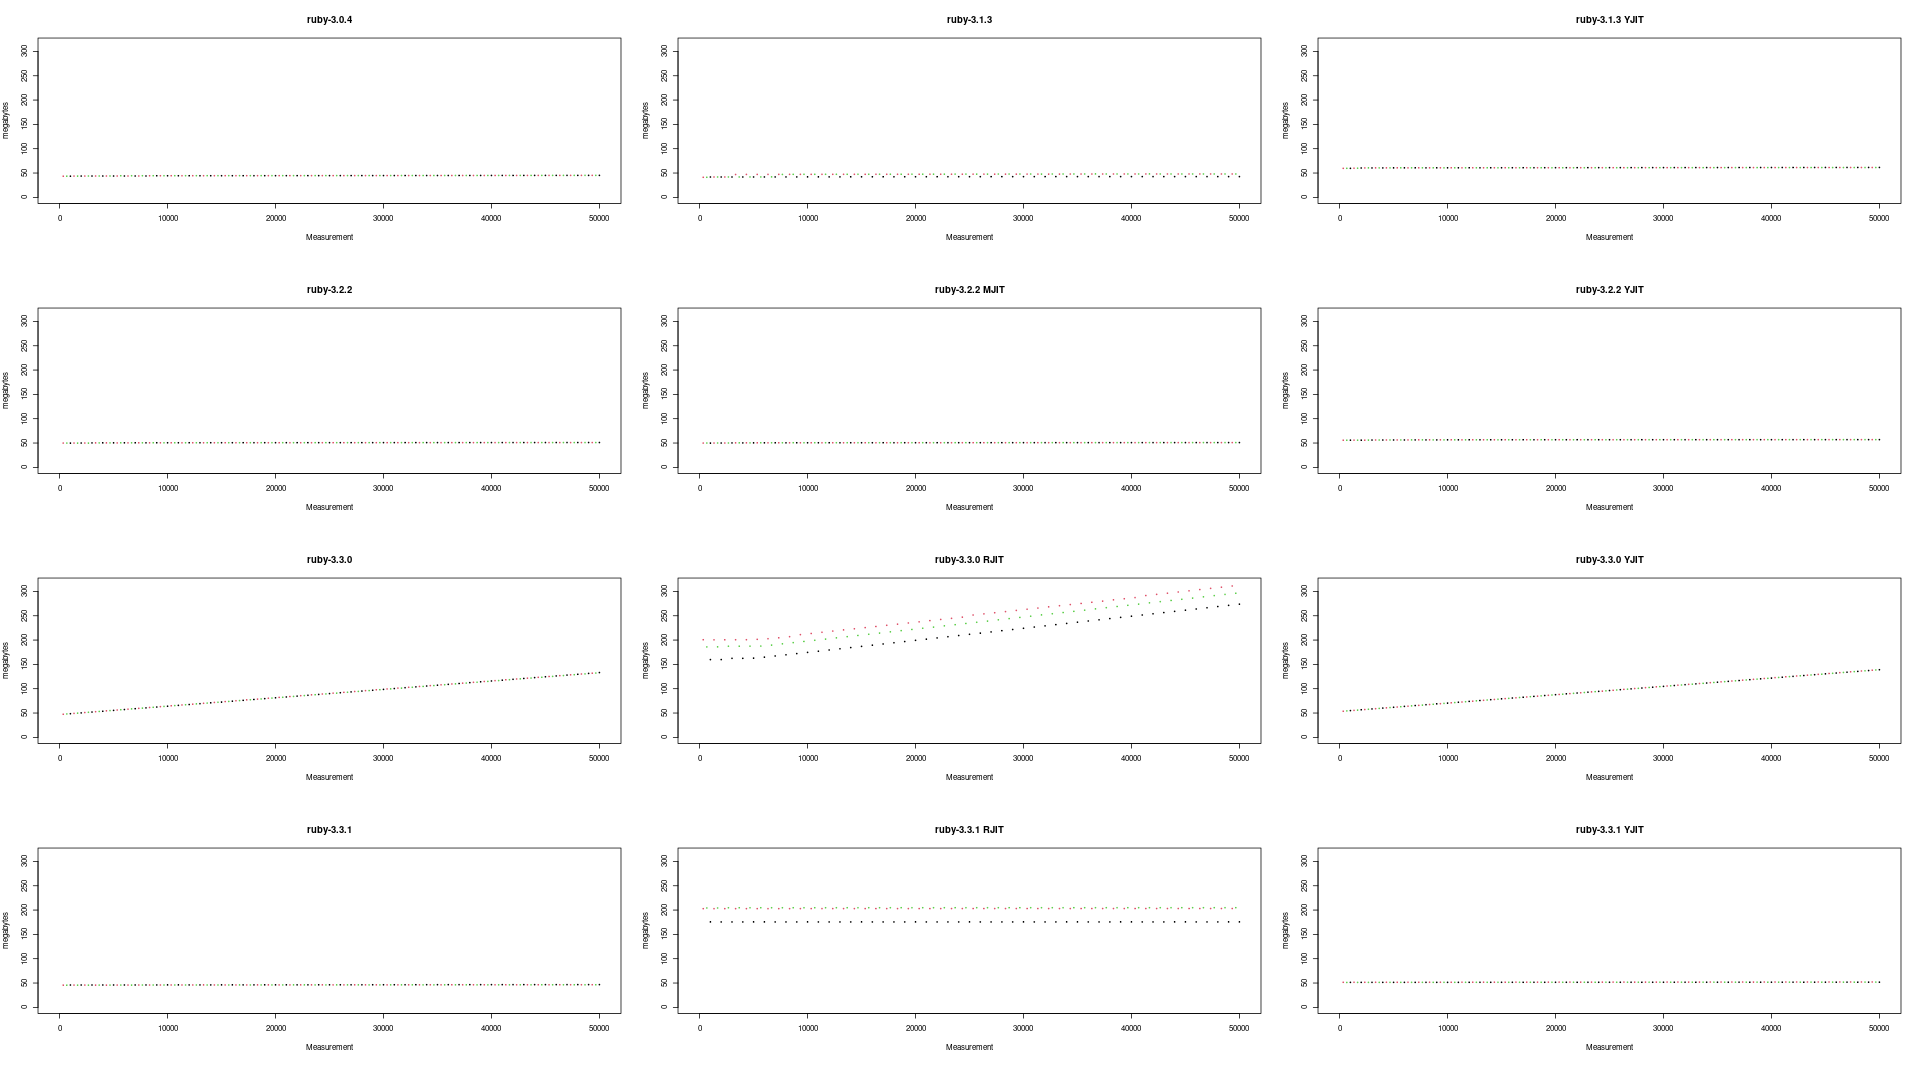
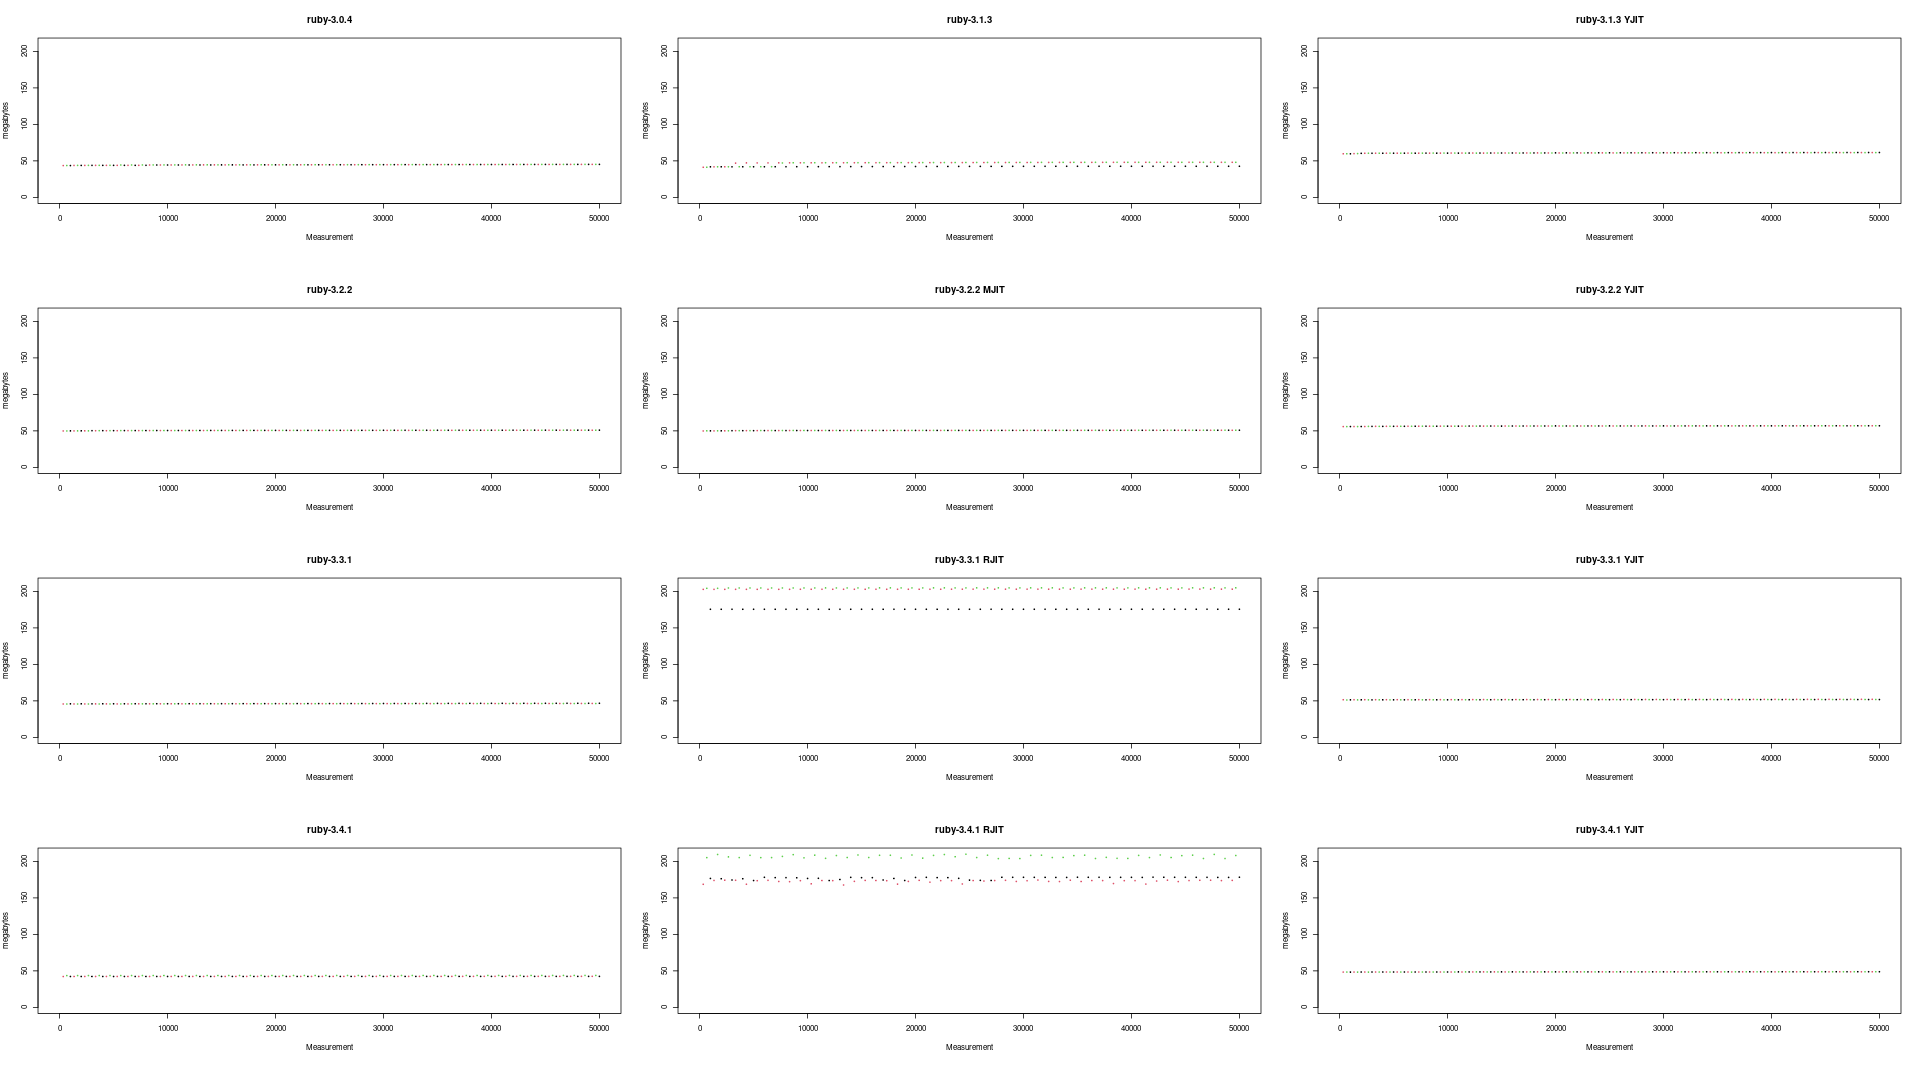
Updated results for Rodauth app MRI Rubies 3.0 - 3.4

diff --git a/data/rodauth/README.md b/data/rodauth/README.md
@@ -14,7 +14,7 @@ Five url's were included in the test:
 5. index-page with bad cookie (cyan)
 
 ## System
-OS: Linux 5.15.0-105-generic #115-Ubuntu SMP Mon Apr 15 09:52:04 UTC 2024 x86_64 GNU/Linux  
+OS: Linux 5.15.0-126-generic #136-Ubuntu SMP Wed Nov 6 10:38:22 UTC 2024 x86_64 GNU/Linux  
 CPU: AuthenticAMD AMD Ryzen 7 5800X 8-Core Processor  
 
 ## Tested Rubies
@@ -26,20 +26,20 @@ CPU: AuthenticAMD AMD Ryzen 7 5800X 8-Core Processor
 | ruby-3.2.2                |      |      37Mb |      51Mb |      124s |    0.49ms |    0.47ms |    0.12ms |       99 |        0 |   750000 |       19 |
 | ruby-3.2.2                | MJIT |      37Mb |      51Mb |      125s |    0.49ms |    0.47ms |    0.12ms |       93 |        0 |   750000 |       19 |
 | ruby-3.2.2                | YJIT |      38Mb |      57Mb |      113s |    0.45ms |    0.42ms |    0.16ms |      147 |        0 |   750000 |       22 |
-| ruby-3.3.0                |      |      41Mb |     133Mb |      138s |    0.55ms |    0.53ms |    0.13ms |        9 |        0 |   750000 |        1 |
-| ruby-3.3.0                | RJIT |      82Mb |     295Mb |      142s |    0.55ms |    0.49ms |     2.9ms |     5302 |        0 |   750000 |        2 |
-| ruby-3.3.0                | YJIT |      42Mb |     139Mb |      119s |    0.48ms |    0.46ms |    0.18ms |       27 |        0 |   750000 |        1 |
 | ruby-3.3.1                |      |      39Mb |      46Mb |      136s |    0.54ms |    0.52ms |    0.12ms |        9 |        0 |   750000 |        4 |
 | ruby-3.3.1                | RJIT |      74Mb |     195Mb |      143s |    0.56ms |    0.49ms |    2.91ms |     4351 |        0 |   750000 |        2 |
 | ruby-3.3.1                | YJIT |      40Mb |      52Mb |      117s |    0.46ms |    0.44ms |    0.18ms |       25 |        0 |   750000 |        1 |
+| ruby-3.4.1                |      |      33Mb |      43Mb |      144s |    0.57ms |    0.53ms |    0.15ms |       15 |        0 |   750000 |        1 |
+| ruby-3.4.1                | RJIT |      72Mb |     186Mb |      160s |    0.62ms |     0.5ms |    3.52ms |     3438 |        0 |   750000 |      266 |
+| ruby-3.4.1                | YJIT |      34Mb |      49Mb |      120s |    0.47ms |    0.45ms |    0.22ms |       39 |        0 |   750000 |        1 |
 
 ## Winners
 
-- Ruby with lowest __slow__ response-count (> 3ms): __ruby-3.3.0__ (9x)
+- Ruby with lowest __slow__ response-count (> 3ms): __ruby-3.3.1__ (9x)
 - Ruby with lowest __median__* response-time: __ruby-3.2.2 YJIT__ (0.42ms)
 - Ruby with lowest __standard deviation__ response-time: __ruby-3.2.2__ (0.12ms)
 - Ruby with lowest __mean__* response-time: __ruby-3.2.2 YJIT__ (0.45ms)
-- Ruby with lowest __memory__ use: __ruby-3.0.4__ (45Mb)
+- Ruby with lowest __memory__ use: __ruby-3.4.1__ (43Mb)
 
 \* Mean and median are calculated after warmup (x > N/2).
 
@@ -76,15 +76,6 @@ Vertical blue lines near the X-axis indicate major garbage collection runs (of R
 ## Response-times for: ruby-3.2.2 YJIT
 ![Response-times for: ruby-3.2.2 YJIT](/data/rodauth/plots/rodauth_1_ruby-3.2.2%20YJIT.png "Response-times for: ruby-3.2.2 YJIT")
 
-## Response-times for: ruby-3.3.0
-![Response-times for: ruby-3.3.0](/data/rodauth/plots/rodauth_1_ruby-3.3.0.png "Response-times for: ruby-3.3.0")
-
-## Response-times for: ruby-3.3.0 RJIT
-![Response-times for: ruby-3.3.0 RJIT](/data/rodauth/plots/rodauth_1_ruby-3.3.0%20RJIT.png "Response-times for: ruby-3.3.0 RJIT")
-
-## Response-times for: ruby-3.3.0 YJIT
-![Response-times for: ruby-3.3.0 YJIT](/data/rodauth/plots/rodauth_1_ruby-3.3.0%20YJIT.png "Response-times for: ruby-3.3.0 YJIT")
-
 ## Response-times for: ruby-3.3.1
 ![Response-times for: ruby-3.3.1](/data/rodauth/plots/rodauth_1_ruby-3.3.1.png "Response-times for: ruby-3.3.1")
 
@@ -93,6 +84,15 @@ Vertical blue lines near the X-axis indicate major garbage collection runs (of R
 
 ## Response-times for: ruby-3.3.1 YJIT
 ![Response-times for: ruby-3.3.1 YJIT](/data/rodauth/plots/rodauth_1_ruby-3.3.1%20YJIT.png "Response-times for: ruby-3.3.1 YJIT")
+
+## Response-times for: ruby-3.4.1
+![Response-times for: ruby-3.4.1](/data/rodauth/plots/rodauth_1_ruby-3.4.1.png "Response-times for: ruby-3.4.1")
+
+## Response-times for: ruby-3.4.1 RJIT
+![Response-times for: ruby-3.4.1 RJIT](/data/rodauth/plots/rodauth_1_ruby-3.4.1%20RJIT.png "Response-times for: ruby-3.4.1 RJIT")
+
+## Response-times for: ruby-3.4.1 YJIT
+![Response-times for: ruby-3.4.1 YJIT](/data/rodauth/plots/rodauth_1_ruby-3.4.1%20YJIT.png "Response-times for: ruby-3.4.1 YJIT")
 
 
 ## Detailed scatter-plots
@@ -115,15 +115,6 @@ Same as above but focussing on the most ocurring response times. GC runs are not
 ## Detailed response-times for: ruby-3.2.2 YJIT
 ![Detailed response-times for: ruby-3.2.2 YJIT](/data/rodauth/plots/rodauth_2_ruby-3.2.2%20YJIT.png "Detailed response-times for: ruby-3.2.2 YJIT")
 
-## Detailed response-times for: ruby-3.3.0
-![Detailed response-times for: ruby-3.3.0](/data/rodauth/plots/rodauth_2_ruby-3.3.0.png "Detailed response-times for: ruby-3.3.0")
-
-## Detailed response-times for: ruby-3.3.0 RJIT
-![Detailed response-times for: ruby-3.3.0 RJIT](/data/rodauth/plots/rodauth_2_ruby-3.3.0%20RJIT.png "Detailed response-times for: ruby-3.3.0 RJIT")
-
-## Detailed response-times for: ruby-3.3.0 YJIT
-![Detailed response-times for: ruby-3.3.0 YJIT](/data/rodauth/plots/rodauth_2_ruby-3.3.0%20YJIT.png "Detailed response-times for: ruby-3.3.0 YJIT")
-
 ## Detailed response-times for: ruby-3.3.1
 ![Detailed response-times for: ruby-3.3.1](/data/rodauth/plots/rodauth_2_ruby-3.3.1.png "Detailed response-times for: ruby-3.3.1")
 
@@ -132,4 +123,13 @@ Same as above but focussing on the most ocurring response times. GC runs are not
 
 ## Detailed response-times for: ruby-3.3.1 YJIT
 ![Detailed response-times for: ruby-3.3.1 YJIT](/data/rodauth/plots/rodauth_2_ruby-3.3.1%20YJIT.png "Detailed response-times for: ruby-3.3.1 YJIT")
+
+## Detailed response-times for: ruby-3.4.1
+![Detailed response-times for: ruby-3.4.1](/data/rodauth/plots/rodauth_2_ruby-3.4.1.png "Detailed response-times for: ruby-3.4.1")
+
+## Detailed response-times for: ruby-3.4.1 RJIT
+![Detailed response-times for: ruby-3.4.1 RJIT](/data/rodauth/plots/rodauth_2_ruby-3.4.1%20RJIT.png "Detailed response-times for: ruby-3.4.1 RJIT")
+
+## Detailed response-times for: ruby-3.4.1 YJIT
+![Detailed response-times for: ruby-3.4.1 YJIT](/data/rodauth/plots/rodauth_2_ruby-3.4.1%20YJIT.png "Detailed response-times for: ruby-3.4.1 YJIT")
 
